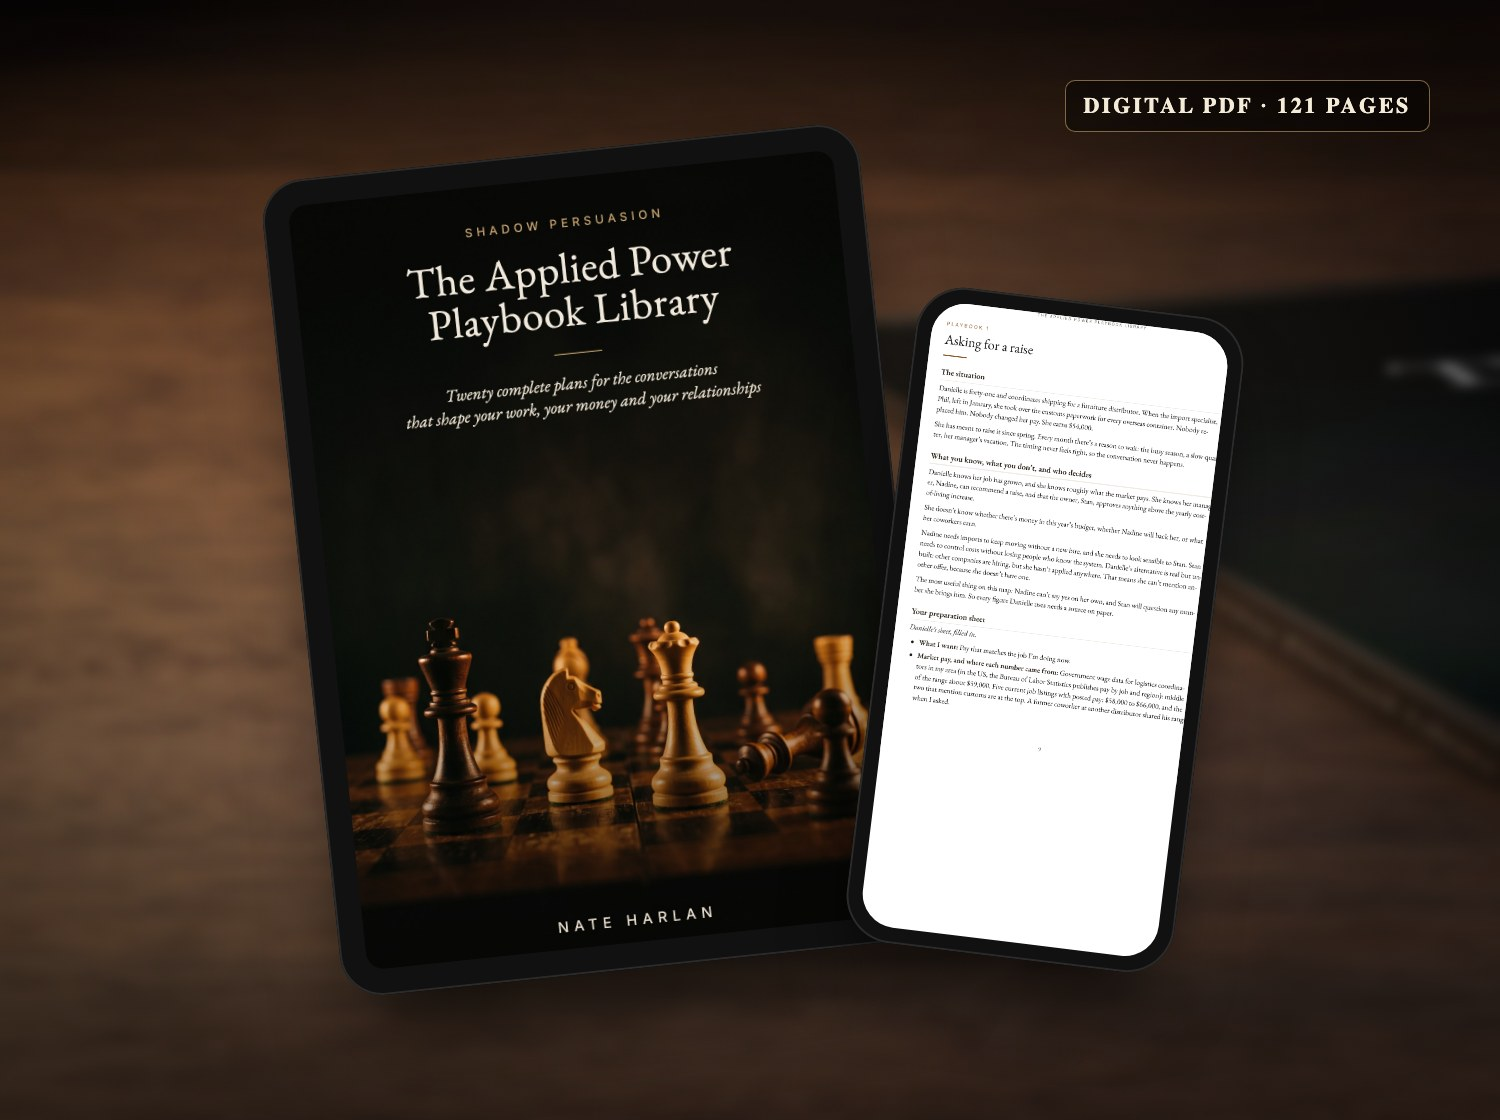
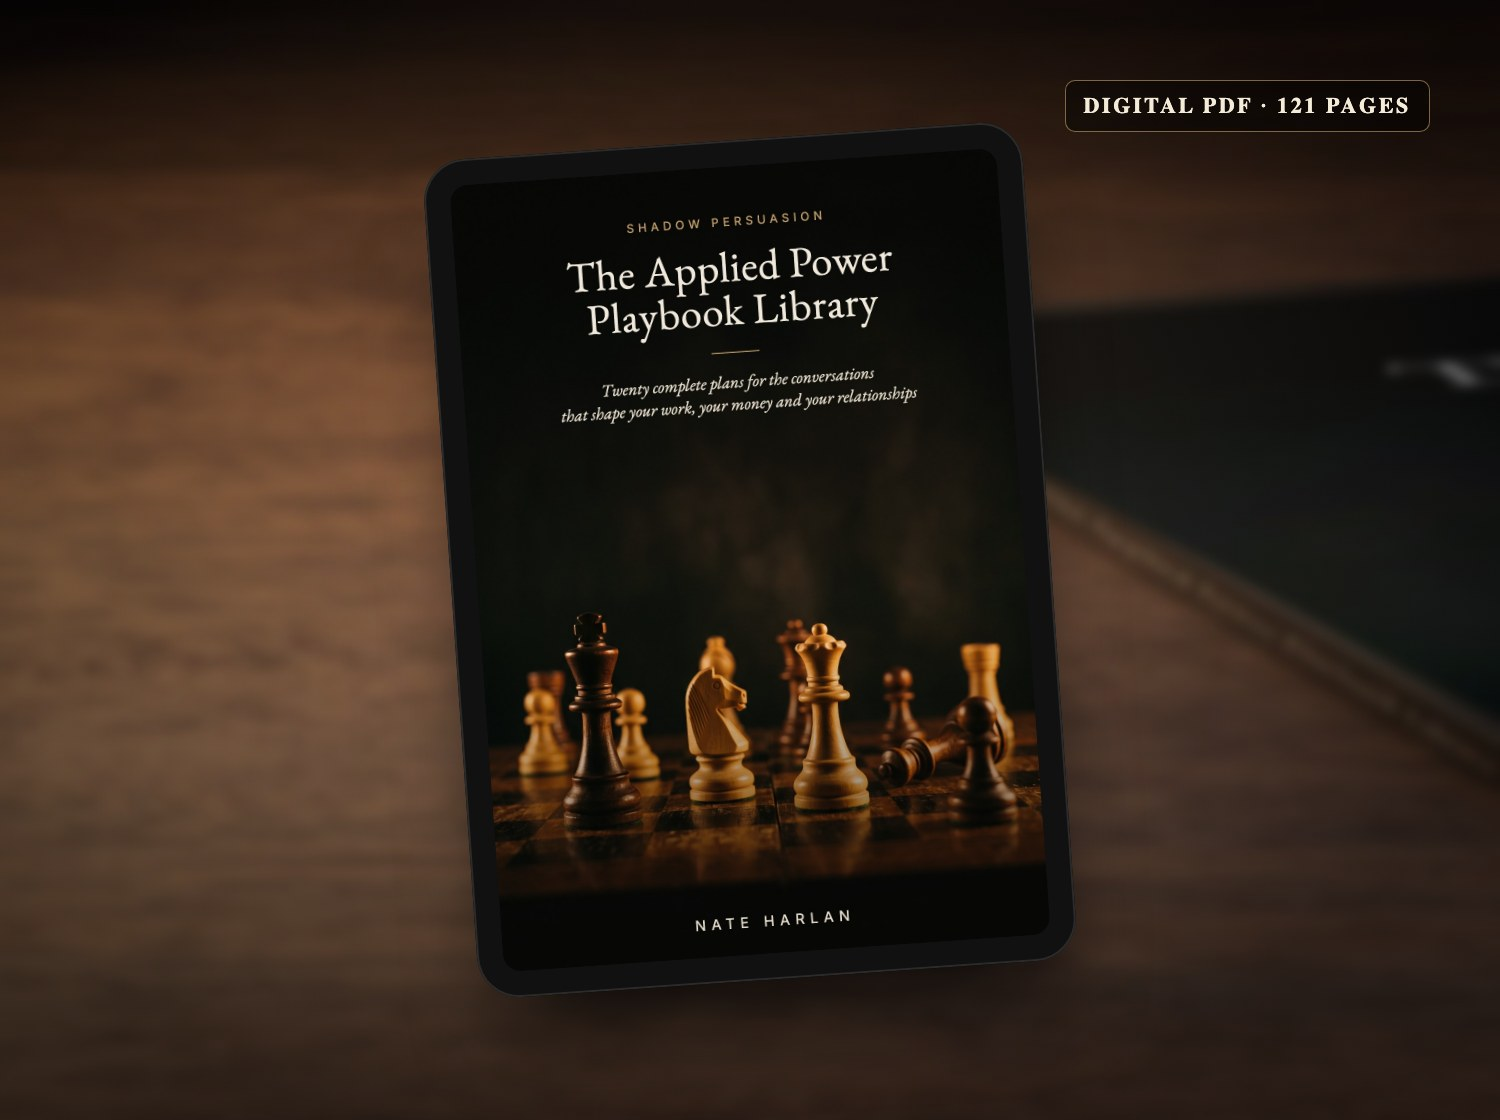
Upsell picture: tablet only

Changed region(s): [[0.1533, 0.0938, 0.828, 0.9062], [0.368, 0.8125, 0.3987, 0.8438]]

diff --git a/app/(sales)/upsell/page.tsx b/app/(sales)/upsell/page.tsx
@@ -77,7 +77,7 @@ function UpsellOffer() {
         </p>
 
         {/* eslint-disable-next-line @next/next/no-img-element */}
-        <img src="/v2/img/upsell-digital.jpg" alt="The Applied Power Playbook Library, a 121-page PDF, on a tablet and a phone" className="w-full rounded-xl shadow-2xl mb-4" />
+        <img src="/v2/img/upsell-digital.jpg" alt="The Applied Power Playbook Library, a 121-page PDF, shown on a tablet" className="w-full rounded-xl shadow-2xl mb-4" />
         <p className="sp2-ui text-[17px] text-[color:var(--sp2-muted)] mb-6 md:mb-10">Digital download: a 121-page PDF, emailed to you with your book. Read it on your phone, tablet or computer, or print the worksheets.</p>
         <div className="md:hidden mb-10 text-center">
           <button className="sp2-btn  w-full !py-4" disabled={busy || !pi} onClick={accept}>
